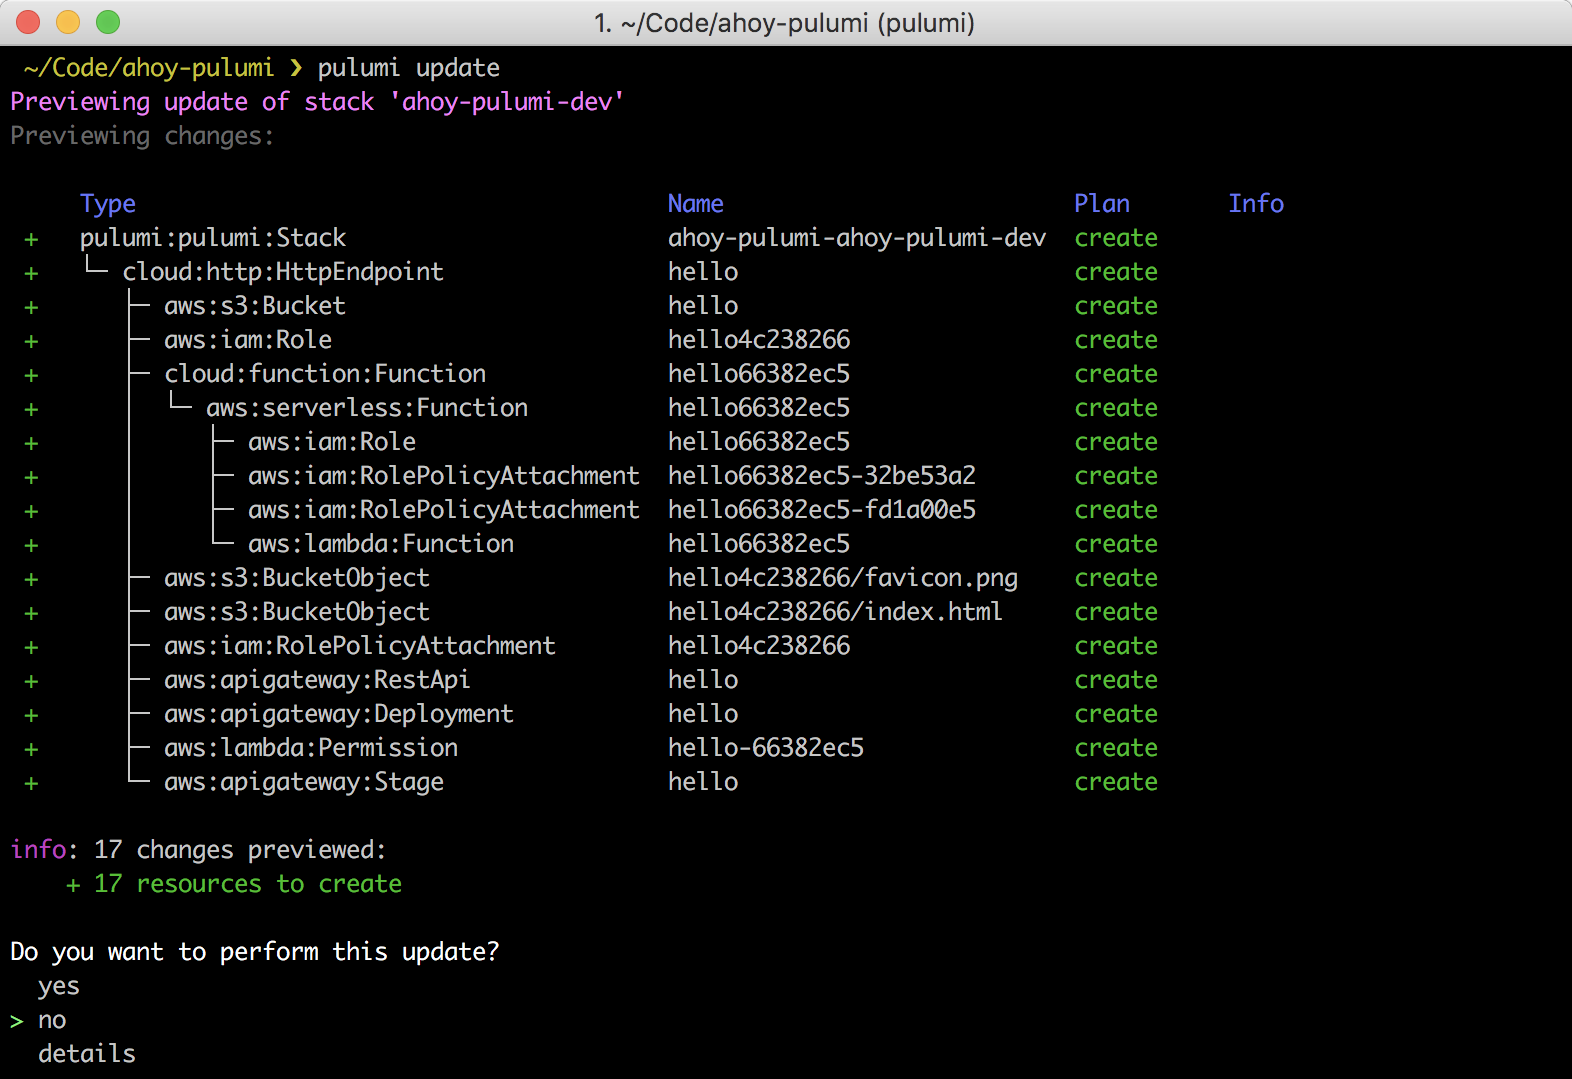
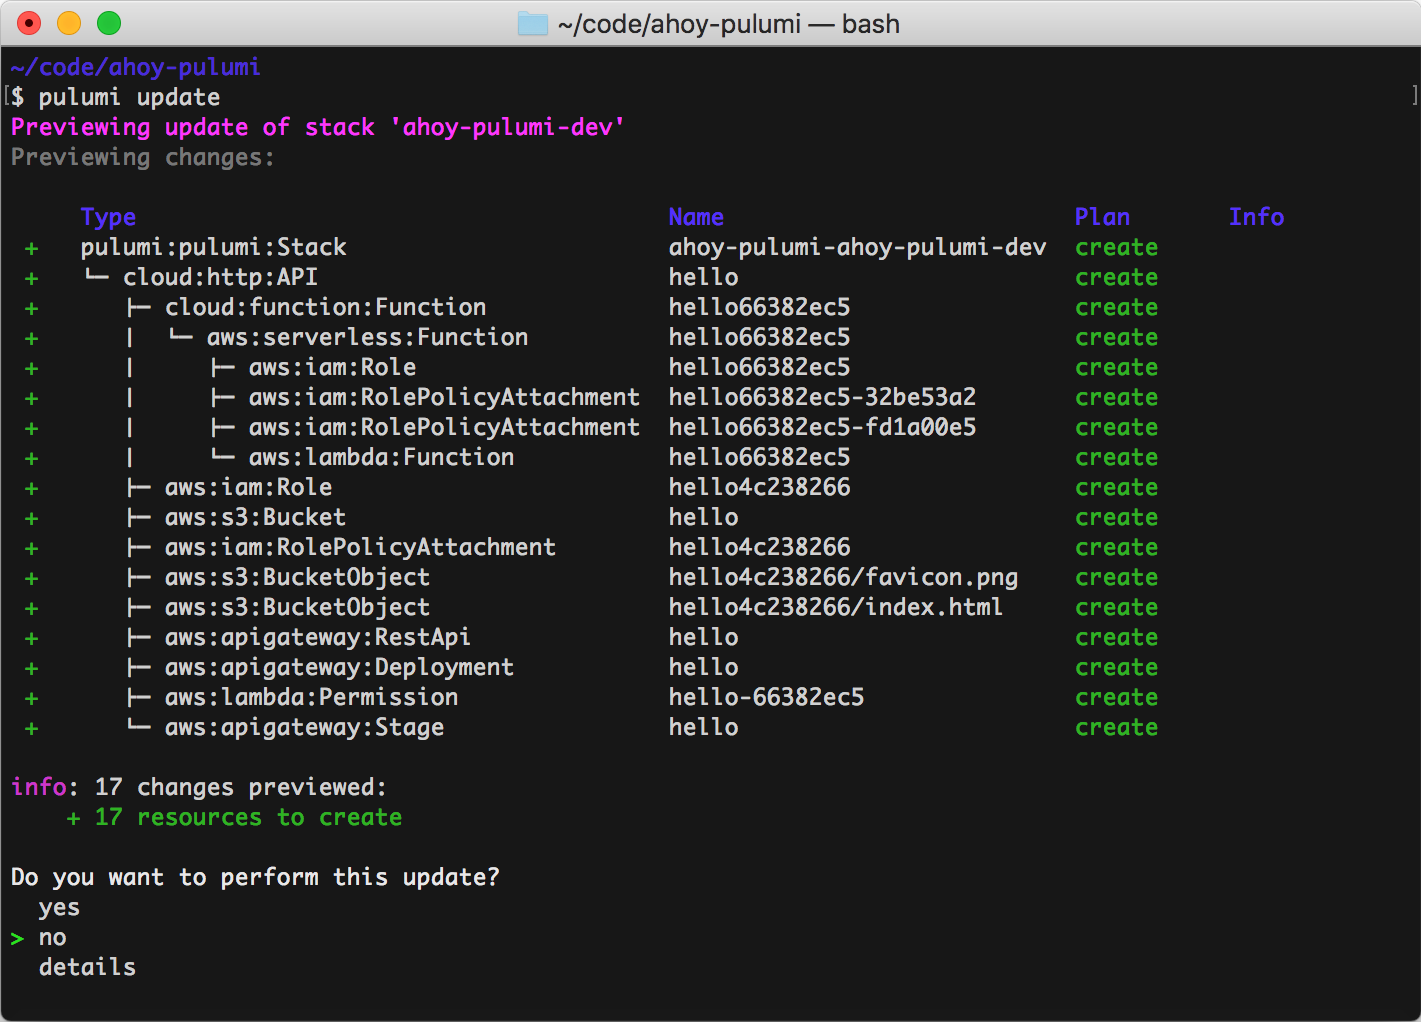
Update screenshots that referred to HttpEndpoint. Closes #385

Changed region(s): [[0.0, 0.0, 1.0, 1.0], [0.867, 0.182, 0.898, 0.2427], [0.9909, 0.9706, 1.0, 1.0]]

diff --git a/quickstart/aws-hello-world.md b/quickstart/aws-hello-world.md
@@ -6,26 +6,21 @@ In this tutorial, we'll use Pulumi to create a serverless single-page app that u
 
 ## What we'll do
 
-- **Initialize** a new Pulumi project.
-- **Define** our stack in JavaScript.
-- **Deploy** our stack to AWS.
-- **Manage** our stack in the Pulumi dashboard.
-- Tear it down.
+- **Initialize** a new Pulumi project
+- **Define** our stack in JavaScript
+- **Deploy** our stack to AWS
+- **Manage** our stack in the Pulumi dashboard
+- Tear it down
 
 {% include aws-js-prereqs.md %}
 
 ## Initialize the project
 
-Create a new folder:
+Let's use the Pulumi CLI to initialize a new project:
 
 ```
-mkdir ahoy-pulumi && cd ahoy-pulumi
-```
-
-Now, let's use the Pulumi CLI to initialize a new project:
-
-```
-pulumi new hello-aws-javascript
+pulumi new hello-aws-javascript --dir ahoy-pulumi
+cd ahoy-pulumi
 ```
 
 You can accept the defaults for this command. For instance, you can change the AWS region to `us-west-2`.
@@ -48,7 +43,7 @@ Let's look at some of those.
 Normally, we'd write some code to define resources for our cloud stack, but in the quickstart this work is done for us. This is the content of `index.js`:
 
 ```javascript
-// Import the @pulumi/cloud-aws package
+// Import the [cloud-aws](https://pulumi.io/packages/pulumi-cloud/) package
 const cloud = require("@pulumi/cloud-aws");
     
 // Create a public HTTP REST API endpoint (using AWS APIGateway)
@@ -107,8 +102,6 @@ pulumi destroy
 ```
 
 Once confirmed, Pulumi will remove all of the resources you've created. The stack itself is preserved in the Pulumi dashboard and is ready to go again as needed.
-
-![](../images/quickstart/hello/Quickstart7.png){:width="700px"}
 
 ## Recap
 
